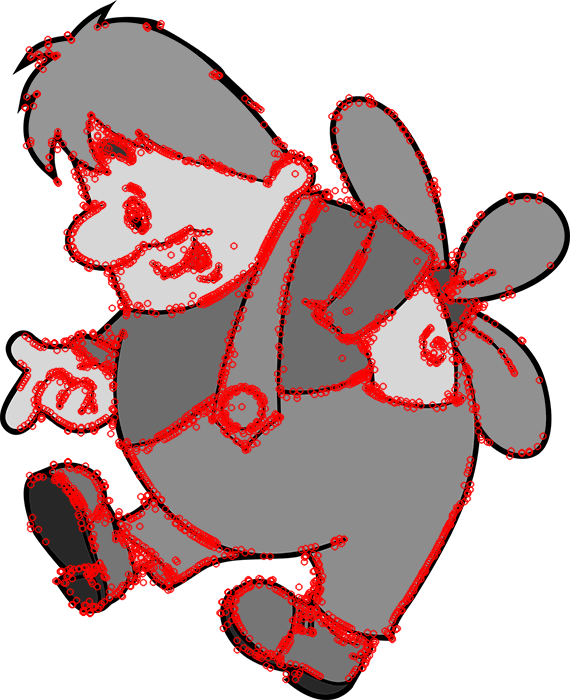
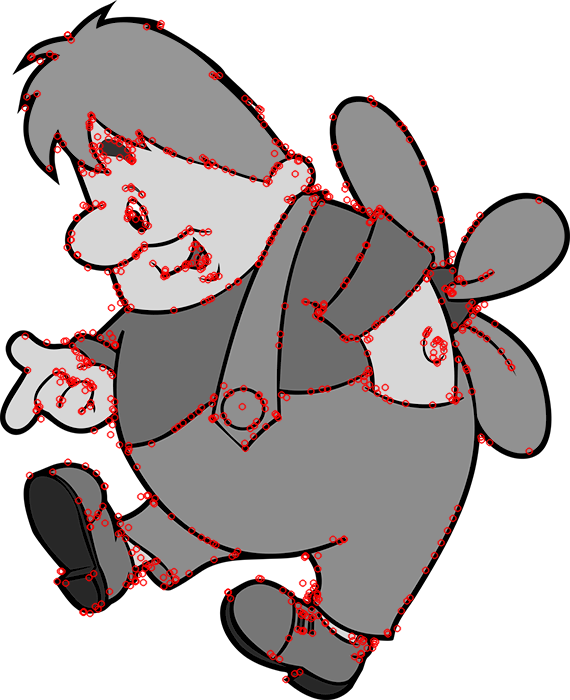
new images

diff --git a/ImageProcessingDiplom/OpenCvServices/BriskDetector.cs b/ImageProcessingDiplom/OpenCvServices/BriskDetector.cs
@@ -19,7 +19,7 @@ namespace ImageProcessingDiplom.OpenCvServices
         {
             Mat image = CvInvoke.Imread(filePath + ".png", ImreadModes.Grayscale);
 
-            _detector = new Brisk(10,4);
+            _detector = new Brisk();
 
             VectorOfKeyPoint keypoints = new VectorOfKeyPoint();
             _detector.DetectRaw(image, keypoints);
@@ -27,11 +27,21 @@ namespace ImageProcessingDiplom.OpenCvServices
             Mat descriptors = new Mat();
             _detector.Compute(image, keypoints, descriptors);
 
+            MKeyPoint[] mKeyPointsArray = keypoints.ToArray();
+            List<MKeyPoint> mKeyPointsList = new List<MKeyPoint>();
+
+            //int numKeyPoints = Math.Min(700, mKeyPointsArray.Length);
+            for (int i = 0; i < mKeyPointsArray.Length - 1; i += 2)
+            {
+                mKeyPointsList.Add(mKeyPointsArray[i]);
+            }
+            VectorOfKeyPoint top500KeyPoints = new VectorOfKeyPoint(mKeyPointsList.ToArray());
+
             Keypoints = keypoints;
             Descriptors = descriptors;
 
             Image<Bgr, byte> outputImage = new Image<Bgr, byte>(image.Size);
-            Features2DToolbox.DrawKeypoints(image, keypoints, outputImage, new Bgr(Color.Red), Features2DToolbox.KeypointDrawType.Default);
+            Features2DToolbox.DrawKeypoints(image, top500KeyPoints, outputImage, new Bgr(Color.Red), Features2DToolbox.KeypointDrawType.Default);
 
             // Save the output image to a file
             CvInvoke.Imwrite(filePath + "_result.png", outputImage.Mat);

diff --git a/ImageProcessingDiplom/Program.cs b/ImageProcessingDiplom/Program.cs
@@ -34,8 +34,11 @@ BriskDetector detector3 = new BriskDetector(imagePathes[2]);
 var descriptors1 = detector1.Descriptors;
 var descriptors2 = detector2.Descriptors;
 var descriptors3 = detector3.Descriptors;
-//var descriptors4 = detector4.Descriptors;
 
+Console.WriteLine($"Count on image 1 of founded keypoints: {detector1.Keypoints.ToArray().Length}");
+Console.WriteLine($"Count on image 1 of founded keypoints: {detector2.Keypoints.ToArray().Length}");
+Console.WriteLine($"Count on image 1 of founded keypoints: {detector3.Keypoints.ToArray().Length}");
+//var descriptors4 = detector4.Descriptors;
 
 ////Vote etalones
 //Stopwatch stopwatch = Stopwatch.StartNew();
